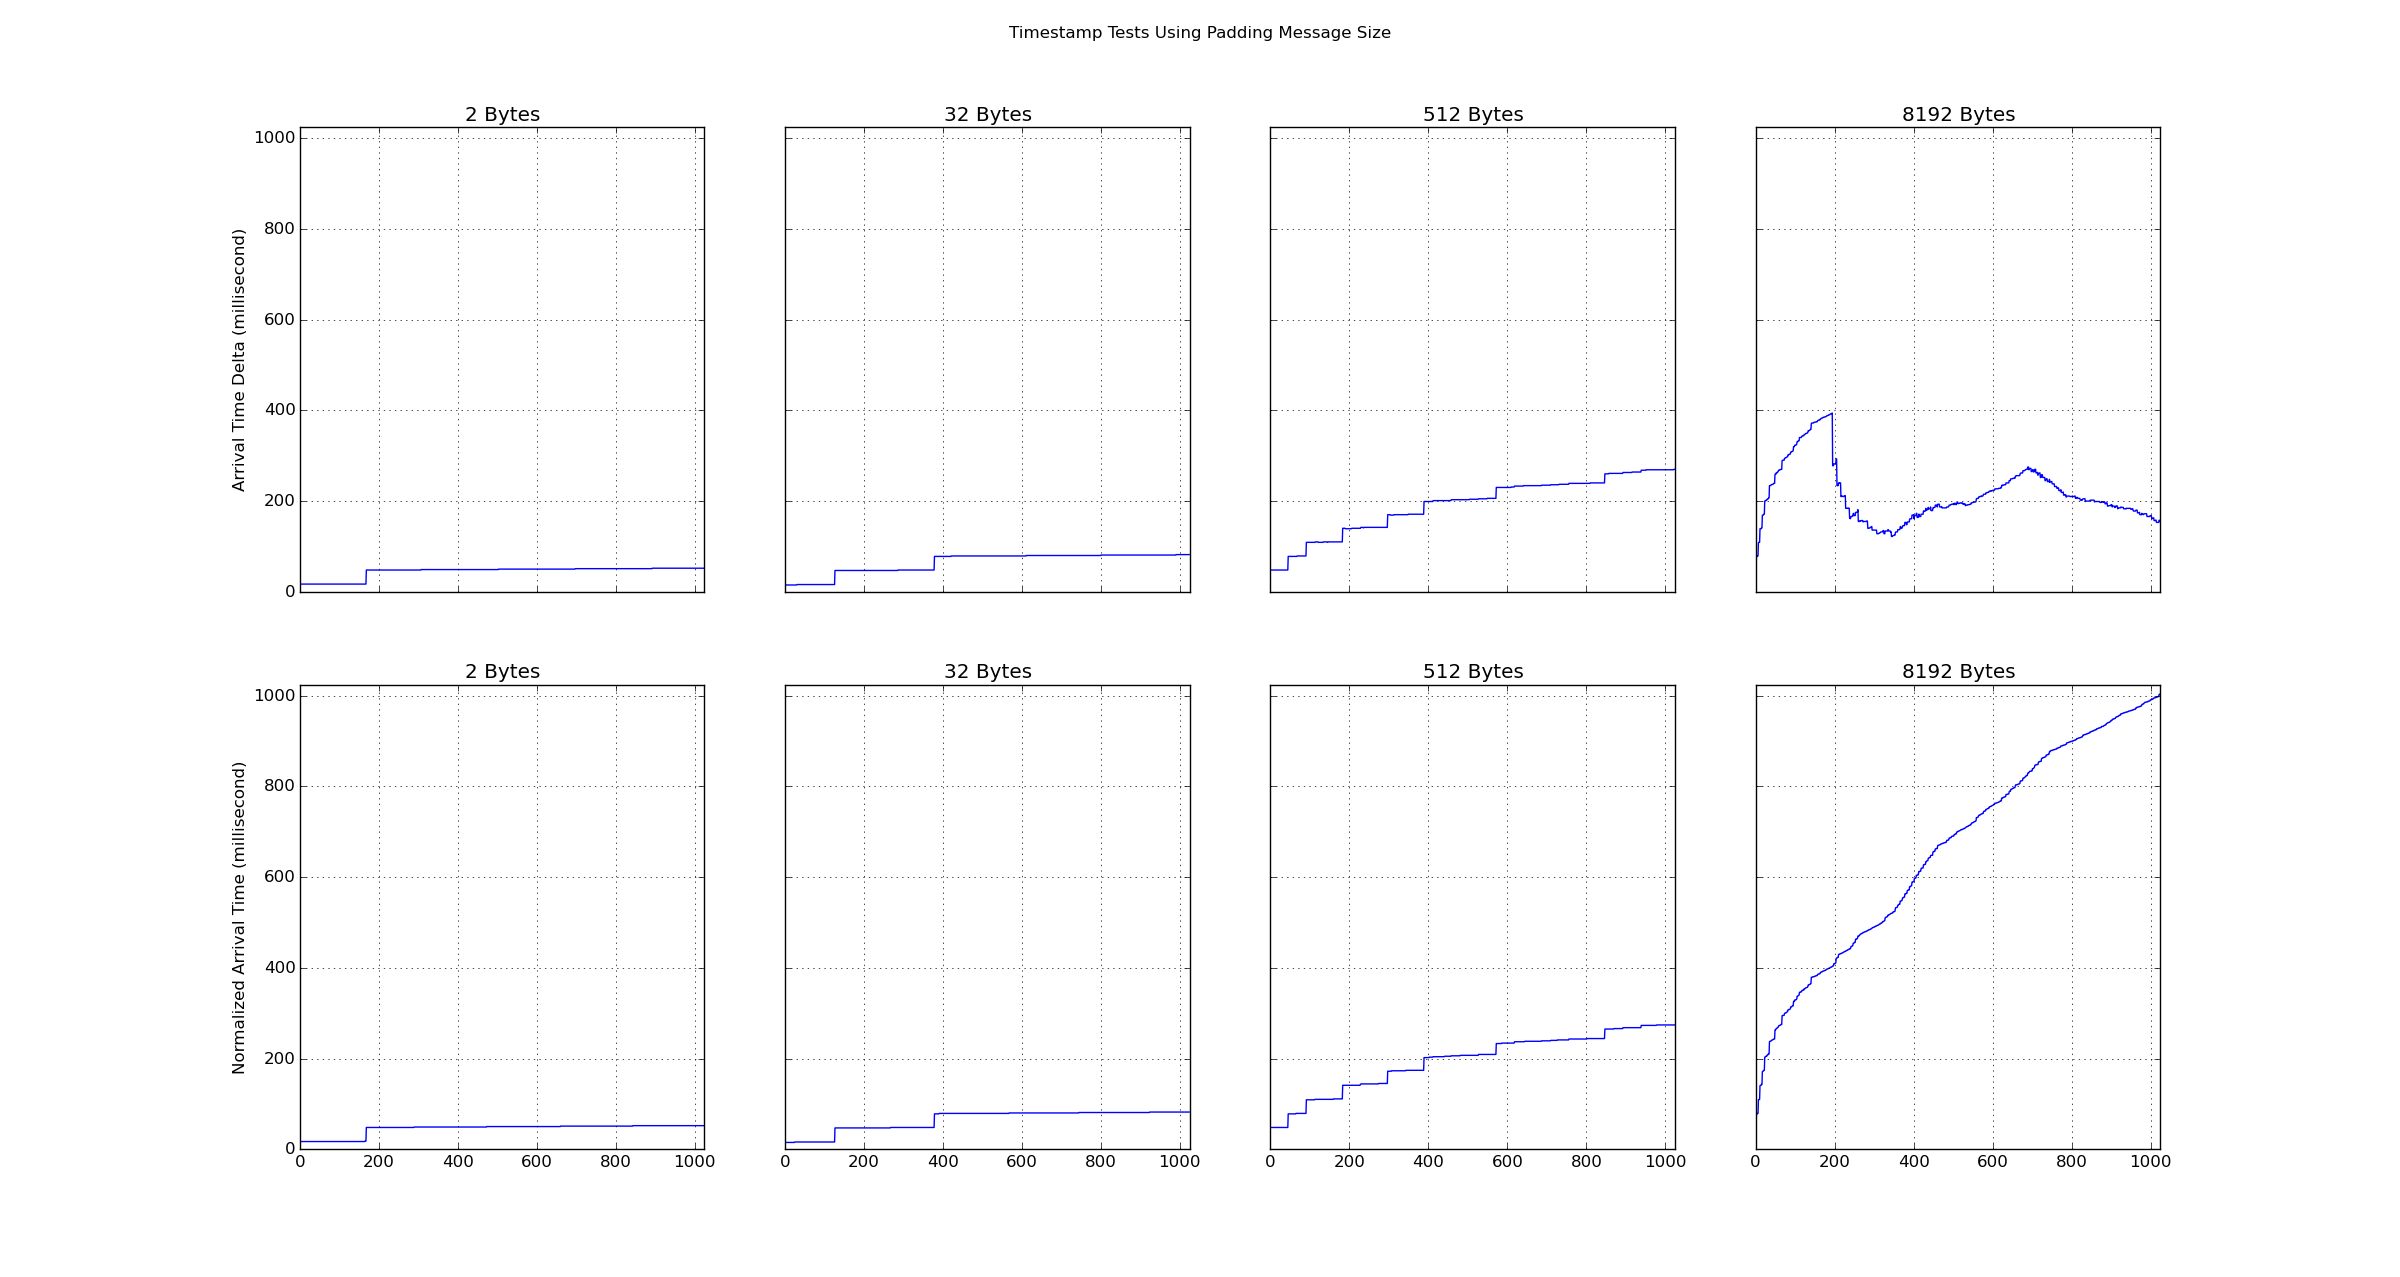
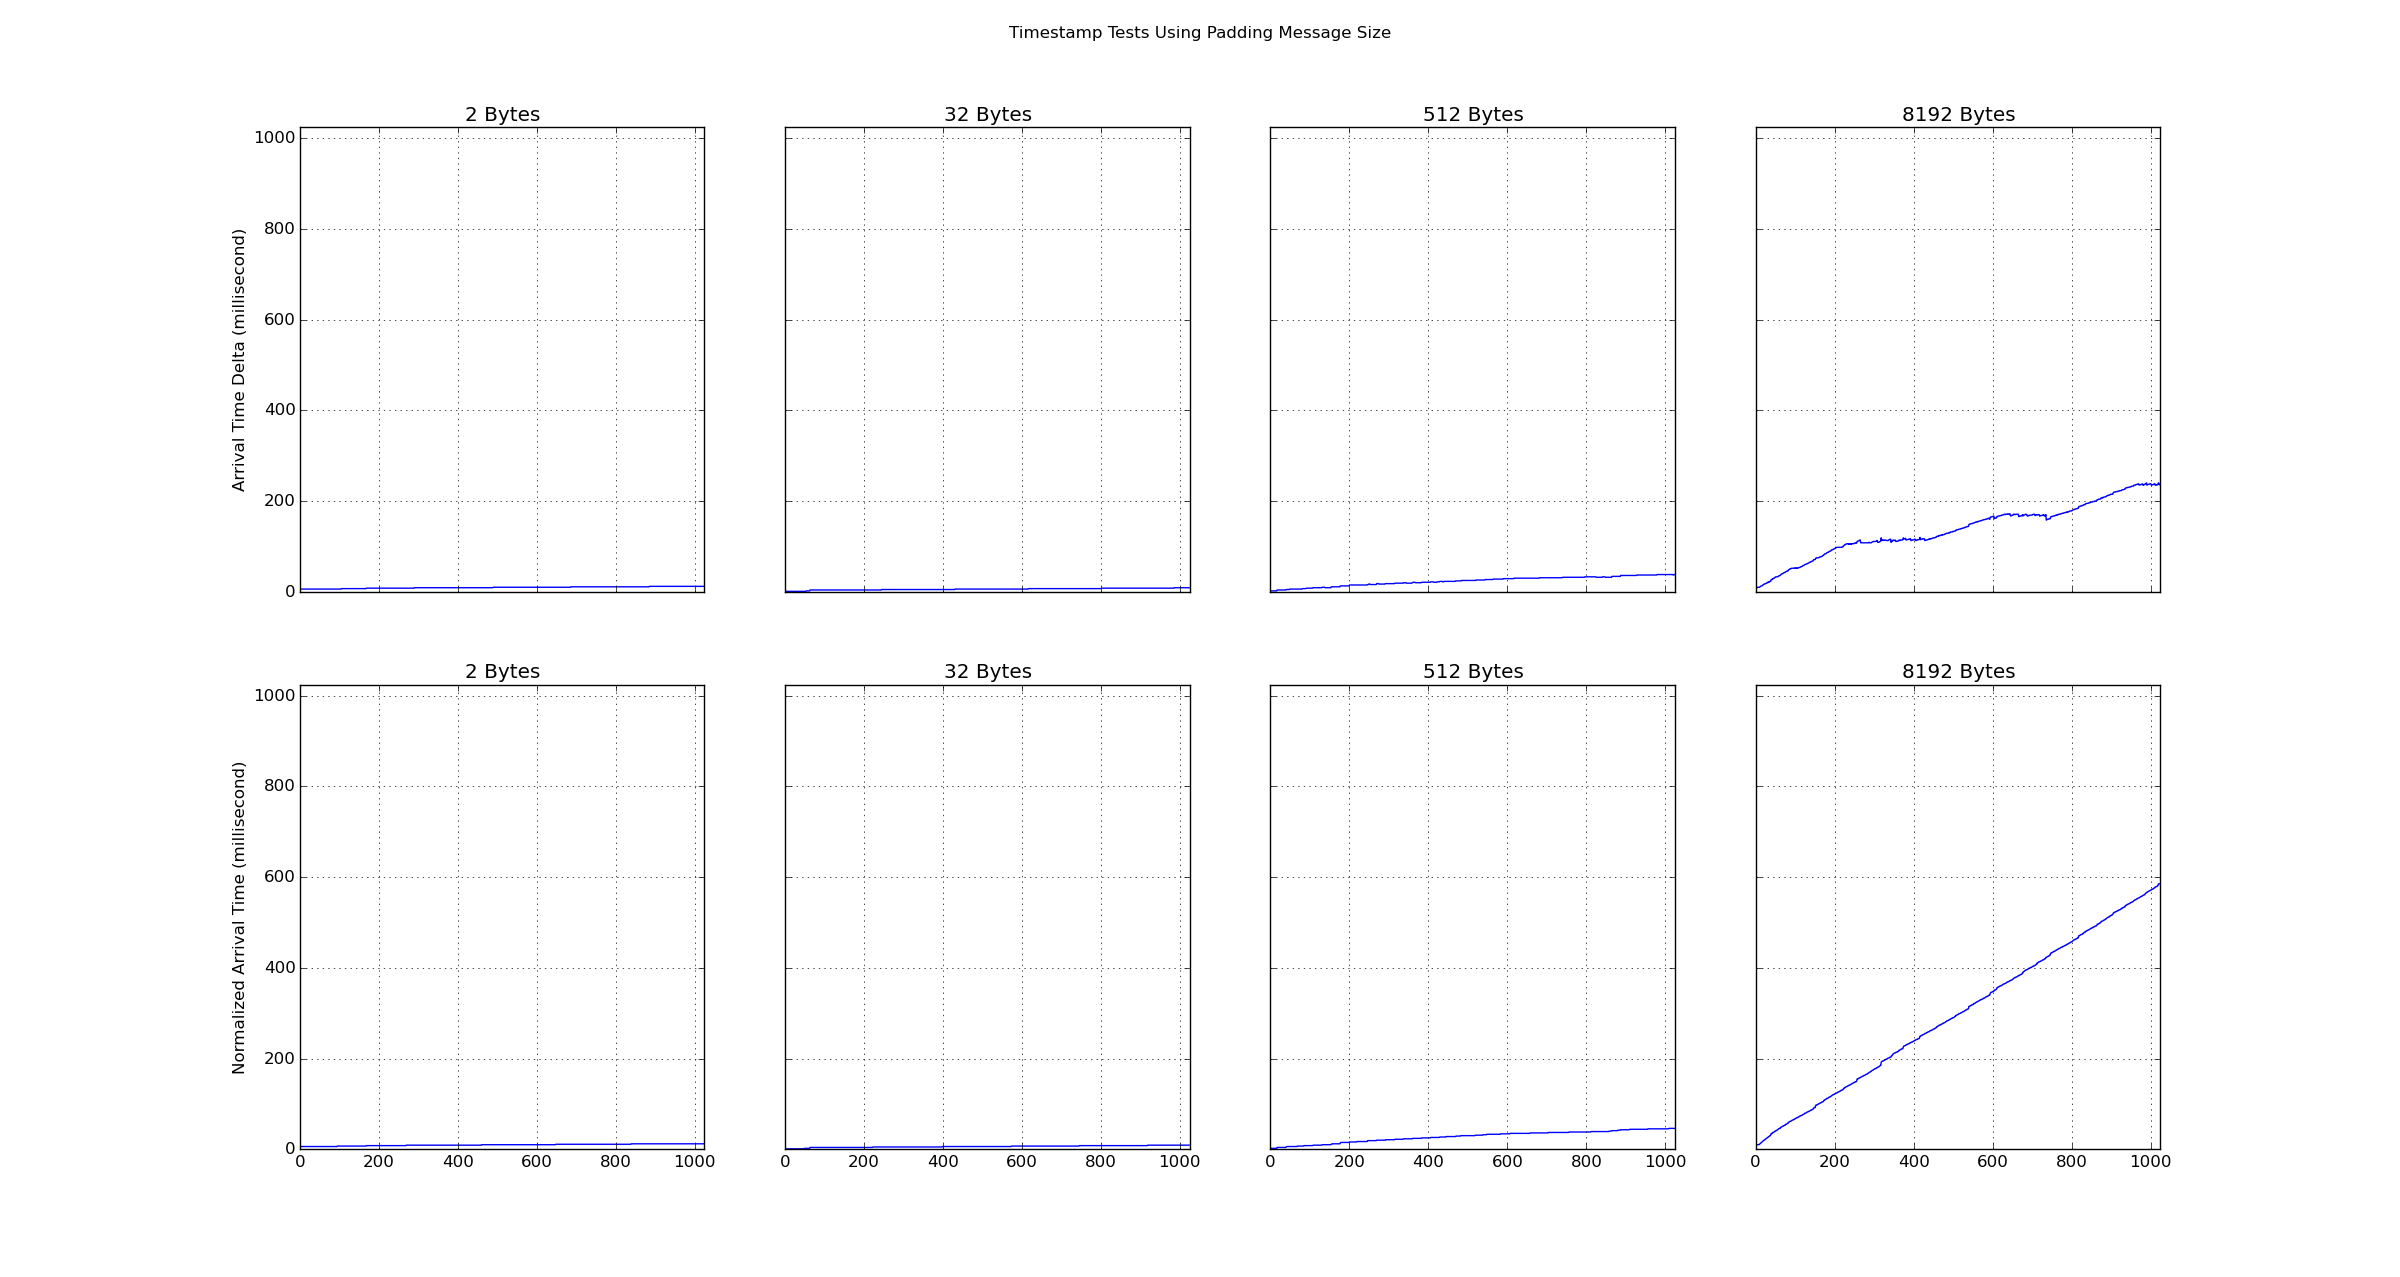
Updated all the READMEs under the Timestamp directory and added new plots generated by the revised tsTest.py script

Changed region(s): [[0.8438, 0.3665, 0.875, 0.397], [0.7812, 0.397, 0.8125, 0.4276], [0.125, 0.8857, 0.1562, 0.9162]]

diff --git a/Timestamp/report/README.md b/Timestamp/report/README.md
@@ -1,6 +1,6 @@
 # Estimating Network Offered-Load Using Timestamp
-All the 3 tests are done by running the [tsMiniNetTest.py](../tsMiniNetTest.py)
-script with the following:
+For the *mininet* based version, all the 3 tests are done by running the
+[tsMiniNetTest.py](../tsMiniNetTest.py) script with the following:
 ```bash
 sudo python tsMiniNetTest.py -b
 ```
@@ -10,6 +10,15 @@ after proper password is entered, the 3 generated reports named
 * *tsMiniNetRTTTestResult.txt*
 
 will reside in this directory.
+
+For the physical cluster version using *tc*, all 3 tests are done by running
+the [tsTest.py](../tsTest.py) script with the identical flag as shown above;
+after the required login credentials are entered, 3 reports named
+* *tsLossTestResult.txt*
+* *tsPadMsgSizeTestResult.txt*
+* *tsRTTTestResult.txt*
+
+(note there is **NO** *MiniNet* prefix) will reside in this directory as well.
 ## Overview
 The mininet topology setup is the same as the *Performance Analysis* one, which
 is a **linear** topology with 1 switch and 2 hosts:
@@ -34,10 +43,11 @@ which is 2.2.1 in the VM.
 Note all the tables listed in the following are random samples coming from the
 full 1024 messages sent by the *ts* program.
 
-A fundamental flaw in the [tsMiniNetTest.py](../tsMiniNetTest.py) test driver
-script is the lack of averaging functions: the sample results listed here may
-turn out to be outliers, so in the future the averaging functionality may be
-added to ensure the data obtained is actually "trustworthy".
+A fundamental flaw in both the [tsMiniNetTest.py](../tsMiniNetTest.py) and
+[tsTest.py](../tsTest.py) test driver scripts is the lack of averaging
+functions: the sample results listed here may turn out to be outliers,
+so in the future the averaging functionality may be added to ensure the data
+obtained is actually "trustworthy".
 
 **NOTE**
 * The unit for measuring time for all the tests below is millisecond.
@@ -47,8 +57,11 @@ instead.
 is impractical to list all of the results here.
 
 ## Padding Message Size
-Refer to the plot
-[tsMiniNetTestPadMsgSize.png](plot/tsMiniNetTestPadMsgSize.png).
+
+|Version|Plot                                                           |
+|:-----:|:--------------------------------------------------------------|
+|mininet|[tsMiniNetTestPadMsgSize.png](plot/tsMiniNetTestPadMsgSize.png)|
+|tc     |[tsTestPadMsgSize.png](plot/tsTestPadMsgSize.png)              |
 
 2 Bytes
 
@@ -124,7 +137,11 @@ is set, the normalized arrival time monotonically increases and rises above
 the 1000 miliseconds upper bound in the plot when 800 timestamps are about to
 be sent.
 ## Loss Rate
-Refer to the plot [tsMiniNetTestLoss.png](plot/tsMiniNetTestLoss.png).
+
+|Version|Plot                                               |
+|:-----:|:--------------------------------------------------|
+|mininet|[tsMiniNetTestLoss.png](plot/tsMiniNetTestLoss.png)|
+|tc     |[tsTestLoss.png](plot/tsTestLoss.png)              |
 
 0.1 %
 
@@ -192,7 +209,11 @@ listed above) with very litte fluctuations and does not seem to change relative
 to number of timestamp sent.
 
 ## RTT
-Refer to the plot [tsMiniNetTestRTT.png](plot/tsMiniNetTestRTT.png).
+
+|Version|Plot                                             |
+|:-----:|:------------------------------------------------|
+|mininet|[tsMiniNetTestRTT.png](plot/tsMiniNetTestRTT.png)|
+|tc     |[tsTestRTT.png](plot/tsTestRTT.png)              |
 
 10 Miliseconds
 
